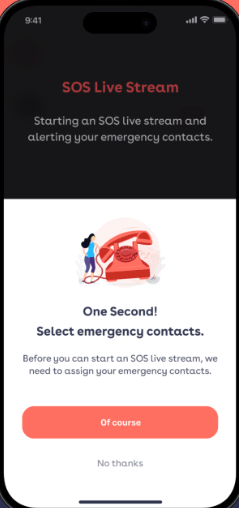
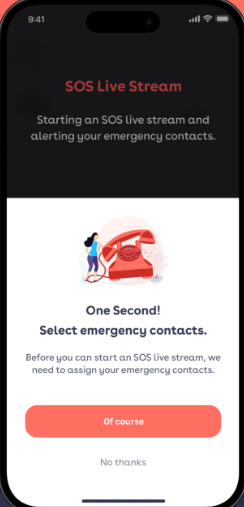
.

diff --git a/style.css b/style.css
@@ -28,21 +28,28 @@ li{
 }
 .main{
   display: flex;
+  margin-left: 100px;
   margin-top: -100px;
   justify-content: space-between;
   align-items: center;
+  margin-right: 50px;
+}
+.words h1{
+  font-size: 50px;
+  text-align: center;
 }
 .words{
 
   margin-left: 20px;
-  margin-right: 20px;
-  max-width: 50%;
+  max-width: 70%;
   align-items: center;
 }
 .first img{
+  
   max-width: 100%; /* Make the image responsive */
     height: auto; /* Maintain aspect ratio */
     max-width: 300px;
+    
 }
 .sos{
   background-color: #FF4C4C; 
@@ -50,10 +57,11 @@ li{
   margin: 0px;
 }
 .top{
-   
+   padding-top: 20px;
     padding-left: 50px;
     padding-right: 50px;
 }
+
 .top1{
     padding-left: 500px;
     padding-top: 30px;
